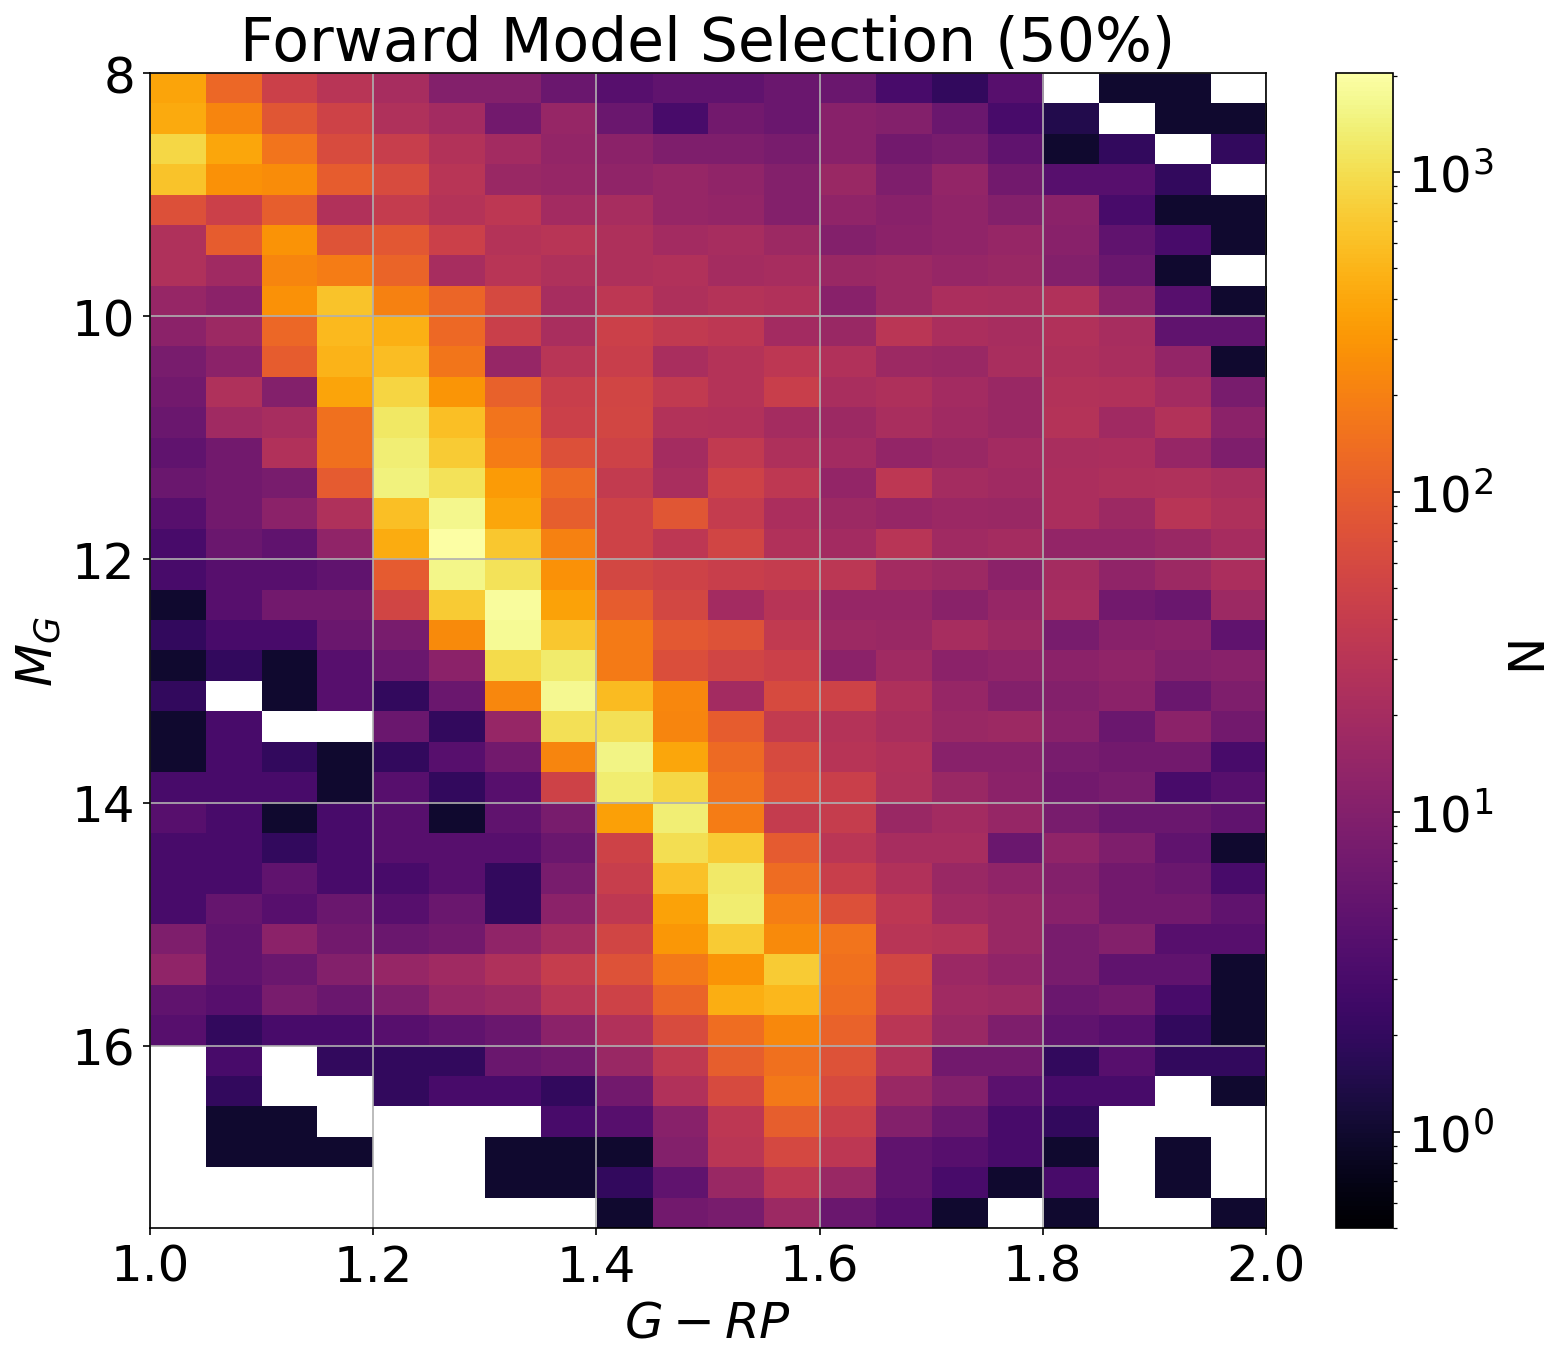
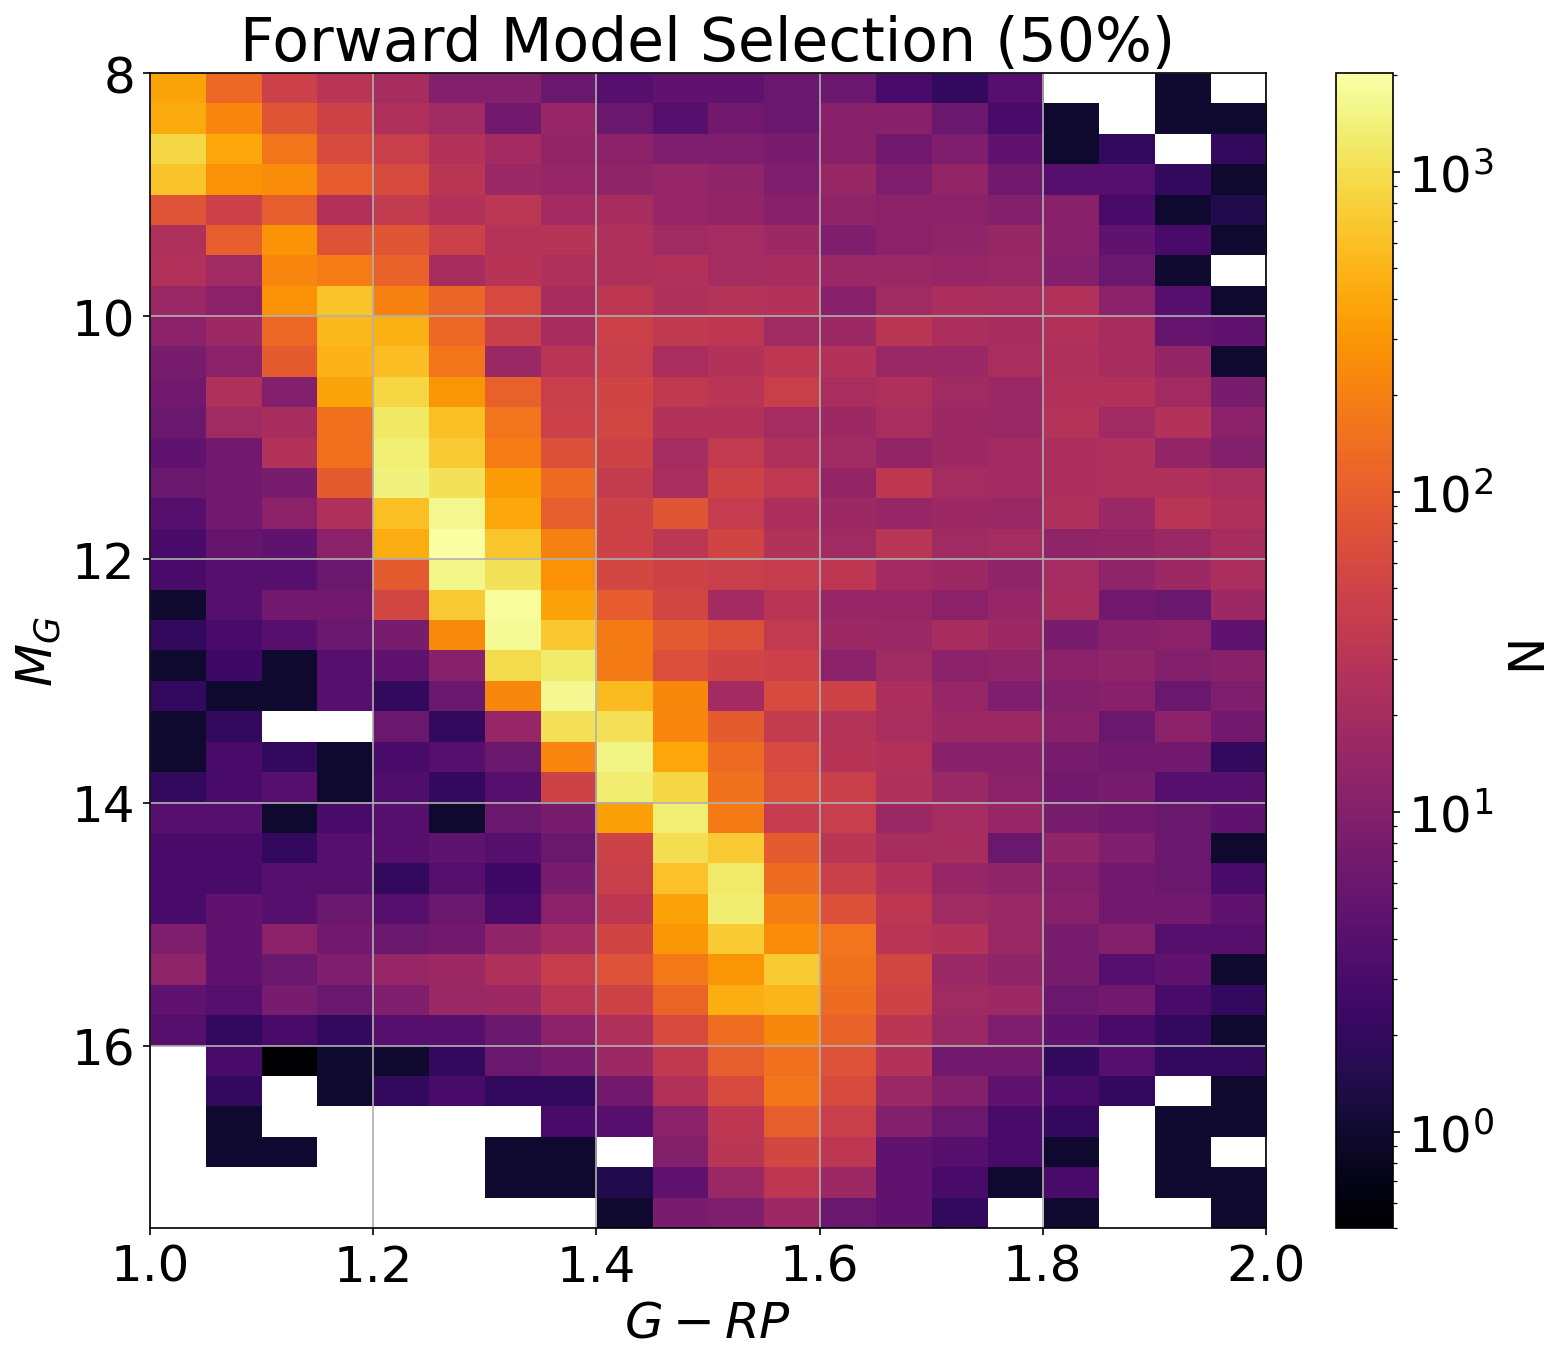
redo examples updated code

diff --git a/notebooks/forward_model_GCNS_mock_proof.py b/notebooks/forward_model_GCNS_mock_proof.py
@@ -60,7 +60,7 @@ if __name__ == '__main__':
     f, (ax1, ax2) = plt.subplots(1, 2, figsize=(24, 10))
     dens = ax1.imshow(ptrue.T, origin='lower', aspect='auto',
             extent=(g_rp_bins.min(), g_rp_bins.max(), MG_bins.min(), MG_bins.max()), cmap='inferno')
-    plt.colorbar(dens, ax=ax1, label=r'$p_k$')
+    plt.colorbar(dens, ax=ax1, label=r'$p_{\mathsf{sub}, k}$')
     ax1.invert_yaxis()
     ax1.set_xlabel(r'$G - RP$')
     ax1.set_ylabel(r'$M_G$')

diff --git a/notebooks/forward_model_halpha_ex.py b/notebooks/forward_model_halpha_ex.py
@@ -138,7 +138,7 @@ if __name__ == '__main__':
 
     f.subplots_adjust(right=0.84)
     cbar_ax = f.add_axes([0.85, 0.15, 0.01, 0.7])
-    f.colorbar(dens, cax=cbar_ax, label=r'$p_k$')
+    f.colorbar(dens, cax=cbar_ax, label=r'$p_{\mathsf{sub}, k}$')
 
     for ax in [ax1, ax2, ax3]:
         ax.set_xlabel(r'$G-RP$')
